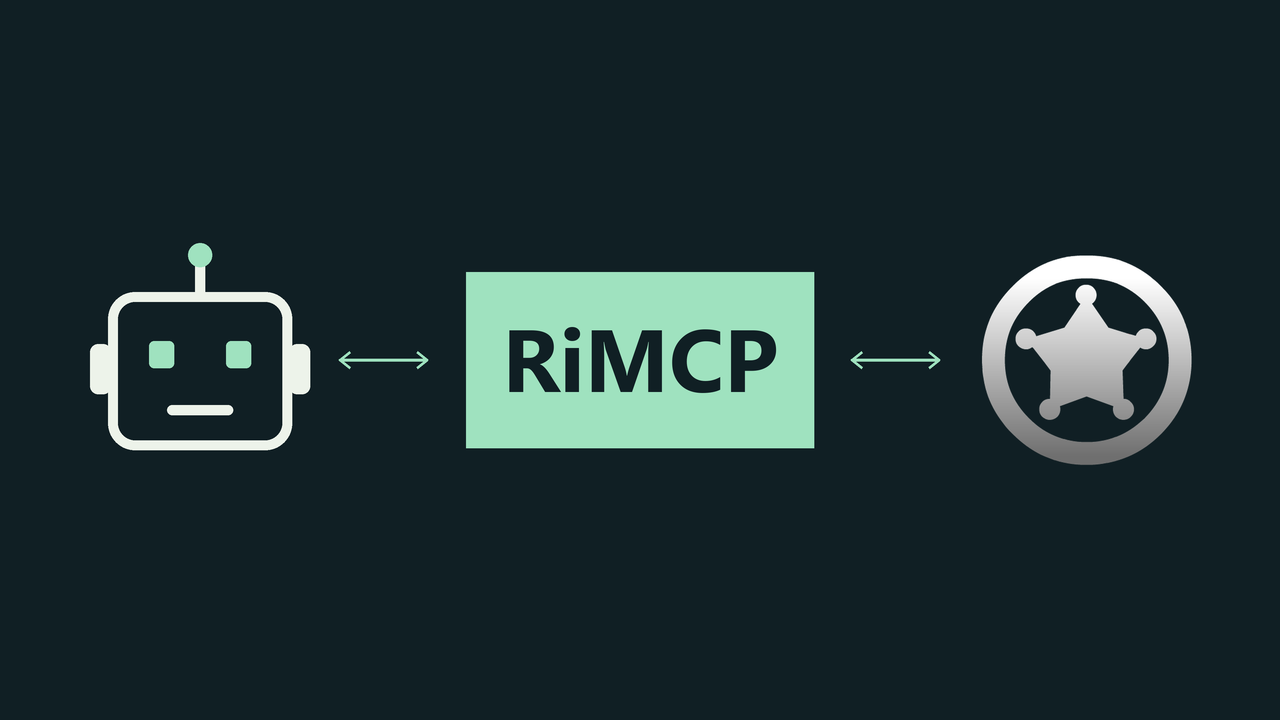
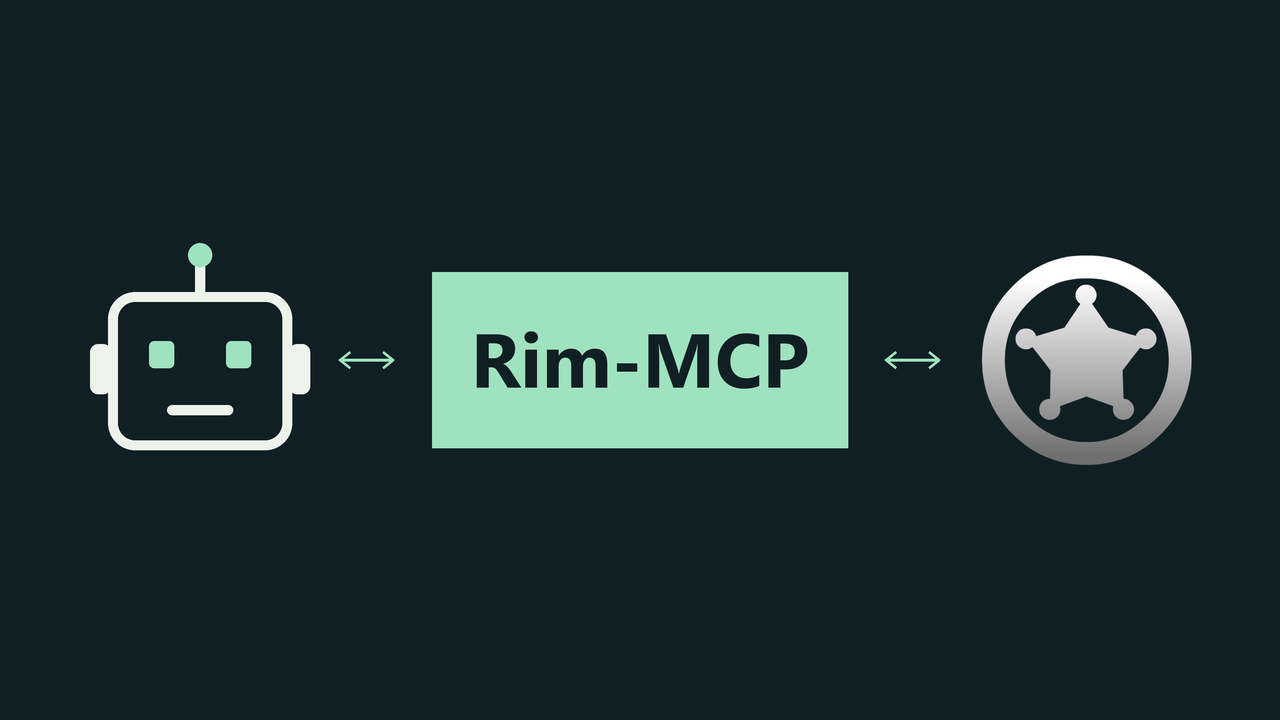
release: rebrand as Rim-MCP for v0.5.2

Changed region(s): [[0.2812, 0.3667, 0.7188, 0.6417]]

diff --git a/RiMCP/Source/RiMCPMod.cs b/RiMCP/Source/RiMCPMod.cs
@@ -30,7 +30,7 @@ namespace RiMCP
 
         public override string SettingsCategory()
         {
-            return "RiMCP";
+            return "Rim-MCP";
         }
 
         public override void DoSettingsWindowContents(Rect inRect)
@@ -43,7 +43,7 @@ namespace RiMCP
             Listing_Standard listing = new Listing_Standard();
             listing.Begin(viewRect);
 
-            listing.Label("RiMCP");
+            listing.Label("Rim-MCP");
             listing.GapLine();
             listing.Label("Status: " + (BridgeRuntime.IsRunning ? "running" : "stopped"));
             listing.Label("Access: " + (!BridgeRuntime.IsRunning ? "disabled" : BridgeRuntime.AllowColonyChanges ? "colony reads and changes" : "read-only"));
@@ -54,7 +54,7 @@ namespace RiMCP
 
             listing.Gap();
             bool enabled = Settings.BridgeEnabled;
-            listing.CheckboxLabeled("Enable RiMCP", ref enabled, "Enables the token-protected local bridge. Clients can read colony data. Changes require Allow colony changes.");
+            listing.CheckboxLabeled("Enable Rim-MCP", ref enabled, "Enables the token-protected local bridge. Clients can read colony data. Changes require Allow colony changes.");
             if (enabled != Settings.BridgeEnabled)
             {
                 Settings.BridgeEnabled = enabled;
@@ -75,14 +75,14 @@ namespace RiMCP
             if (listing.ButtonText("Copy MCP config"))
             {
                 GUIUtility.systemCopyBuffer = BuildMcpConfig();
-                Messages.Message("RiMCP MCP config copied.", MessageTypeDefOf.PositiveEvent, false);
+                Messages.Message("Rim-MCP config copied.", MessageTypeDefOf.PositiveEvent, false);
             }
 
             if (listing.ButtonText("Regenerate token"))
             {
                 Settings.RegenerateToken();
                 BridgeRuntime.ApplySettings();
-                Messages.Message("RiMCP token regenerated. Copy MCP config again.", MessageTypeDefOf.NeutralEvent, false);
+                Messages.Message("Rim-MCP token regenerated. Copy MCP config again.", MessageTypeDefOf.NeutralEvent, false);
             }
 
             listing.Gap();

diff --git a/McpProxy/Program.cs b/McpProxy/Program.cs
@@ -93,7 +93,7 @@ while ((line = Console.ReadLine()) != null)
                     ["serverInfo"] = new JsonObject
                     {
                         ["name"] = "rimcp",
-                        ["version"] = "0.5.1"
+                        ["version"] = "0.5.2"
                     }
                 });
                 break;
@@ -165,7 +165,7 @@ async Task HandleToolCall(JsonNode? id, JsonObject? parameters)
     }
     catch (Exception ex)
     {
-        WriteResult(id, ToolError("Unable to reach RiMCP at " + bridgeUrl + ": " + ex.Message));
+        WriteResult(id, ToolError("Unable to reach Rim-MCP at " + bridgeUrl + ": " + ex.Message));
         return;
     }
 
@@ -369,7 +369,7 @@ static string SummarizeToolResult(string toolName, JsonNode? structured, bool su
 {
     if (!success)
     {
-        return structured?["error"]?.GetValue<string>() ?? "RiMCP request failed.";
+        return structured?["error"]?.GetValue<string>() ?? "Rim-MCP request failed.";
     }
 
     var tick = structured?["tick"]?.GetValue<int?>();

diff --git a/RiMCP/Source/Bridge/BridgeRouter.cs b/RiMCP/Source/Bridge/BridgeRouter.cs
@@ -71,7 +71,7 @@ namespace RiMCP.Bridge
                     {
                         if (!route.MethodMatches("GET") && !BridgeRuntime.AllowColonyChanges)
                         {
-                            return BridgeResponse.Error(403, "Colony changes are disabled. Enable \"Allow colony changes\" in RimWorld's RiMCP mod settings to use this command.");
+                            return BridgeResponse.Error(403, "Colony changes are disabled. Enable \"Allow colony changes\" in RimWorld's Rim-MCP mod settings to use this command.");
                         }
                         return route.Handle(bridgeRequest, match);
                     }

diff --git a/scripts/package-release.py b/scripts/package-release.py
@@ -49,7 +49,7 @@ def main():
         raise FileExistsError(f"Output already exists: {output}. Use --output-dir with a new directory.")
     output.mkdir(parents=True)
     staging = output / "RiMCP"
-    archive = output / f"RiMCP-v{version}.zip"
+    archive = output / f"Rim-MCP-v{version}.zip"
     with zipfile.ZipFile(archive, "x", zipfile.ZIP_DEFLATED, compresslevel=6) as package:
         for source, relative in files.items():
             destination = staging / relative

diff --git a/RiMCP/Source/Bridge/MainThreadDispatcher.cs b/RiMCP/Source/Bridge/MainThreadDispatcher.cs
@@ -20,7 +20,7 @@ namespace RiMCP.Bridge
         {
             if (!TryReserveQueueSlot())
             {
-                return BridgeResponse.Error(429, "RiMCP is busy; too many requests are waiting for the RimWorld main thread. Try again shortly.");
+                return BridgeResponse.Error(429, "Rim-MCP is busy; too many requests are waiting for the RimWorld main thread. Try again shortly.");
             }
 
             WorkItem item = new WorkItem(action);

diff --git a/Shared/ToolManifest.cs b/Shared/ToolManifest.cs
@@ -143,7 +143,7 @@ namespace RiMCP.Shared
 
             if (errors.Count > 0)
             {
-                throw new InvalidOperationException("Invalid RiMCP tool manifest: " + string.Join("; ", errors.ToArray()));
+                throw new InvalidOperationException("Invalid Rim-MCP tool manifest: " + string.Join("; ", errors.ToArray()));
             }
         }
 

diff --git a/README.md b/README.md
@@ -1,8 +1,8 @@
-# RiMCP
+# Rim-MCP
 
 Agentic intelligence for the Rim.
 
-RiMCP is a RimWorld mod that connects MCP-compatible clients to a live colony. The mod runs inside RimWorld and hosts a token-protected HTTP endpoint on `127.0.0.1`. MCP clients can then use the bundled stdio proxy.
+Rim-MCP is a RimWorld mod that connects MCP-compatible clients to a live colony. The mod runs inside RimWorld and hosts a token-protected HTTP endpoint on `127.0.0.1`. MCP clients can then use the bundled stdio proxy.
 
 ## Status
 
@@ -44,10 +44,10 @@ The MCP proxy returns the full payload as `structuredContent` and also mirrors t
 
 ## Using The Mod
 
-1. Open the RiMCP mod settings page.
+1. Open the Rim-MCP mod settings page.
 2. Click **Copy MCP config** to copy the MCP configuration including the URL and token.
 3. Configure your preferred Agentic client with MCP support. (Most agents can configure themselves given the MCP config info)
-4. **Allow colony changes** is on by default, including when upgrading from a version without this setting. Turn it off in RiMCP settings for read-only access. A saved off setting stays off.
+4. **Allow colony changes** is on by default, including when upgrading from a version without this setting. Turn it off in Rim-MCP settings for read-only access. A saved off setting stays off.
 
 If you want MCP to work while RimWorld is alt-tabbed or minimized, enable RimWorld's own **Run in background** setting. Otherwise requests will timeout when the game is not in focus.
 
@@ -105,6 +105,6 @@ After building the mod and publishing all four proxies, run `python scripts/pack
 
 ## License
 
-RiMCP's original code and assets are licensed under the MIT License. See [LICENSE](LICENSE).
+Rim-MCP's original code and assets are licensed under the MIT License. See [LICENSE](LICENSE).
 
-RimWorld, Ludeon Studios, and related names and assets are owned by Ludeon Studios. RiMCP is an unofficial community mod and is not endorsed by Ludeon Studios. Distribution and use as a RimWorld mod remains subject to the RimWorld EULA and any platform terms that apply, such as Steam Workshop terms.
+RimWorld, Ludeon Studios, and related names and assets are owned by Ludeon Studios. Rim-MCP is an unofficial community mod and is not endorsed by Ludeon Studios. Distribution and use as a RimWorld mod remains subject to the RimWorld EULA and any platform terms that apply, such as Steam Workshop terms.

diff --git a/CHANGELOG.md b/CHANGELOG.md
@@ -4,6 +4,12 @@ All notable changes to this project are documented in this file.
 
 ## [Unreleased]
 
+## [0.5.2] - 2026-09-28
+
+### Changed
+
+- Rename the public mod to **Rim-MCP**, including its artwork, descriptions, settings, and messages. Existing package IDs, MCP configuration, and internal paths stay unchanged.
+
 ## [0.5.1] - 2026-09-28
 
 ### Changed
@@ -93,7 +99,8 @@ All notable changes to this project are documented in this file.
 - Detail, include, pagination, map selection, and ids-only controls for supported read tools.
 - RimWorld mod settings flow for copying MCP client configuration.
 
-[Unreleased]: https://github.com/rakanssh/rimcp/compare/v0.5.1...HEAD
+[Unreleased]: https://github.com/rakanssh/rimcp/compare/v0.5.2...HEAD
+[0.5.2]: https://github.com/rakanssh/rimcp/releases/tag/v0.5.2
 [0.5.1]: https://github.com/rakanssh/rimcp/releases/tag/v0.5.1
 [0.5.0]: https://github.com/rakanssh/rimcp/releases/tag/v0.5.0
 [0.4.0]: https://github.com/rakanssh/rimcp/releases/tag/v0.4.0

diff --git a/workshop/README.md b/workshop/README.md
@@ -1,6 +1,8 @@
 # Workshop presentation
 
-Title: **RiMCP**
+Title: **Rim-MCP - Rimworld MCP Server**
+
+RimWorld uploads the in-game name, **Rim-MCP**, as the Workshop title. Restore the longer title above on the Workshop page after uploading if you want to keep the subtitle.
 
 Artwork:
 
